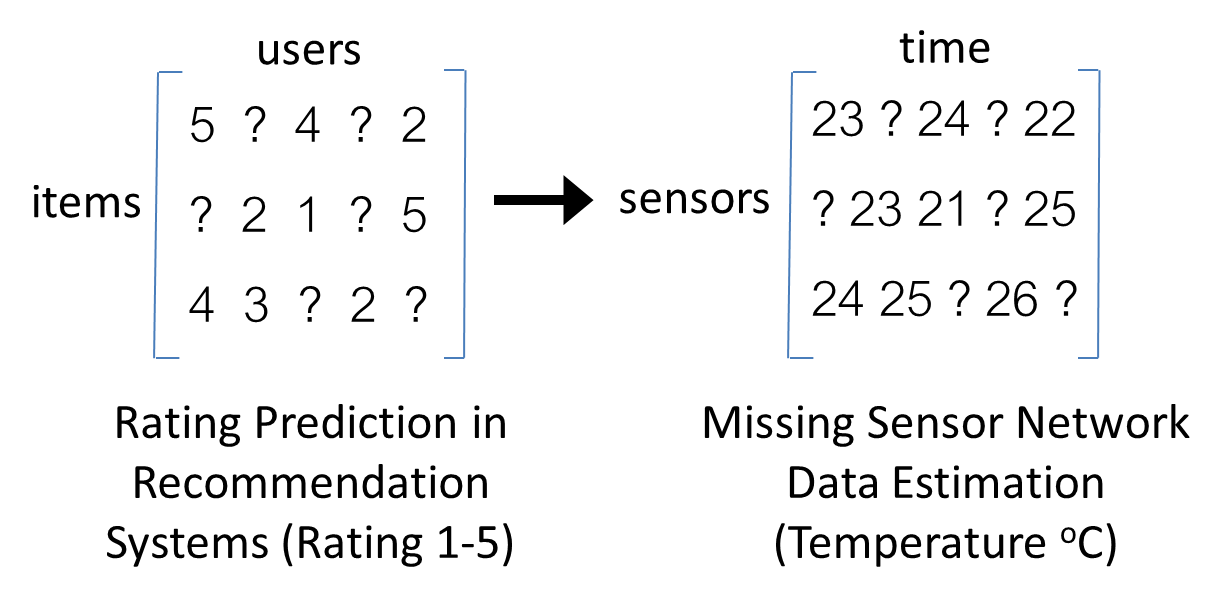
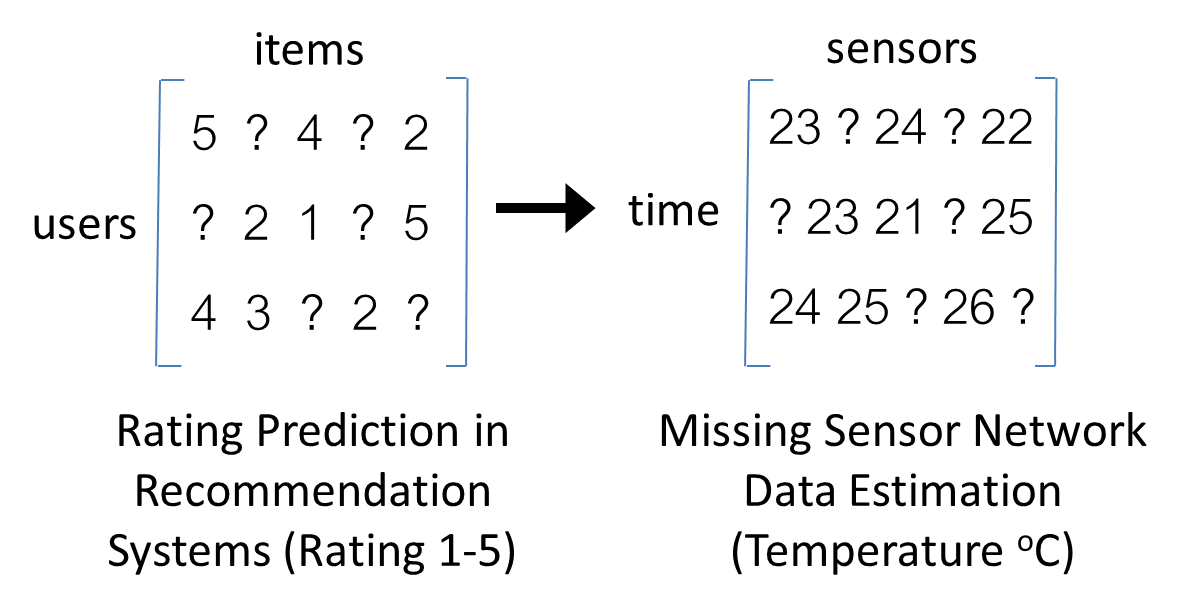
swap row/col in intro recommend/wsn matrices

diff --git a/sensys2012/introduction.tex b/sensys2012/introduction.tex
@@ -171,7 +171,7 @@ widely successful {\em Matrix Factorization} (MF) technique for CF.
 \begin{figure}[H]
 \centering
 \includegraphics[scale=0.35]{recommend_imputation.png}
-\caption{Bridge from Recommendation Systems to Sensor Data Imputation \redtext{Need to swap rows/columns}} 
+\caption{Bridge from Recommendation Systems to Sensor Data Imputation} 
 \label{recommend_imputation}
 \vspace{-0.1in}
 \end{figure}
